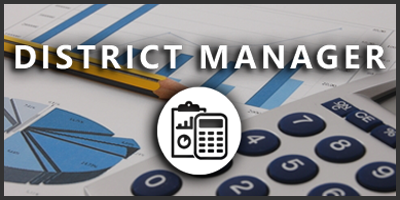
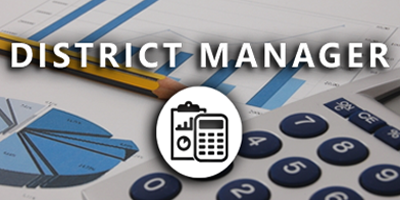
Latest version 3/11

diff --git a/style.css b/style.css
@@ -1817,6 +1817,8 @@ select {
 	align-items: center; /* align vertical */
 }
 
+
+
 .btn-apply2 {
 	text-decoration:none;
 }
@@ -1861,12 +1863,14 @@ a.btn-apply2:link {
 @media (min-width: 980px) {
 .view { display: none; }
 .image-top{position: absolute;
+border: 3px solid black;
 
 }}
 
 /* Portrait tablet to landscape and desktop */
 @media (min-width: 768px) and (max-width: 979px) { .view { display: none; }
 .image-top{position: absolute;
+border: 3px solid black;
 }}
 
 /* Landscape phone to portrait tablet */
@@ -1949,10 +1953,17 @@ a.btn-apply2:link {
 	width:85%;
 }
 
+.btn-apply2 {
+height:14%
+
+}
 .btn-apply2 h2 {
-	position:relative;
-	bottom:25px;
-}}
+position:relative;
+font-size: 1em;
+
+}
+
+}
 
 /* Landscape phones and down */
 @media only screen and (min-width: 320px) and (max-width: 568px) and (orientation:landscape) {
